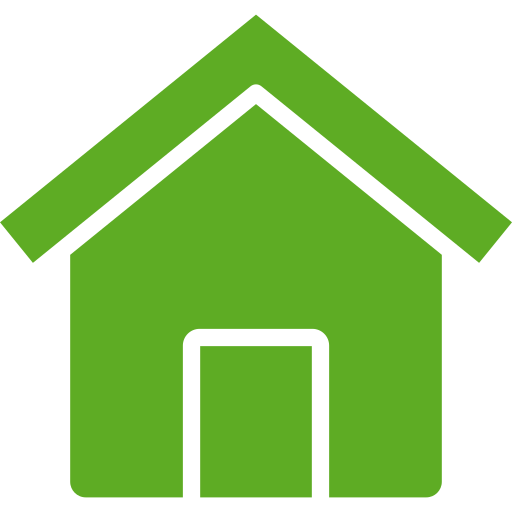
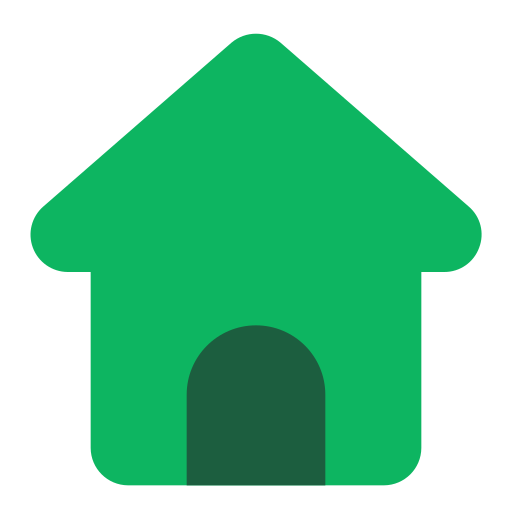
service section

diff --git a/components/ui/background-gradient-animation.tsx b/components/ui/background-gradient-animation.tsx
@@ -1,0 +1,181 @@
+"use client";
+import { cn } from "@/utils/cn";
+import { useEffect, useRef, useState } from "react";
+
+export const BackgroundGradientAnimation = ({
+  gradientBackgroundStart = "rgb(108, 0, 162)",
+  gradientBackgroundEnd = "rgb(0, 17, 82)",
+  firstColor = "18, 113, 255",
+  secondColor = "221, 74, 255",
+  thirdColor = "100, 220, 255",
+  fourthColor = "200, 50, 50",
+  fifthColor = "180, 180, 50",
+  pointerColor = "140, 100, 255",
+  size = "80%",
+  blendingValue = "hard-light",
+  children,
+  className,
+  interactive = true,
+  containerClassName,
+}: {
+  gradientBackgroundStart?: string;
+  gradientBackgroundEnd?: string;
+  firstColor?: string;
+  secondColor?: string;
+  thirdColor?: string;
+  fourthColor?: string;
+  fifthColor?: string;
+  pointerColor?: string;
+  size?: string;
+  blendingValue?: string;
+  children?: React.ReactNode;
+  className?: string;
+  interactive?: boolean;
+  containerClassName?: string;
+}) => {
+  const interactiveRef = useRef<HTMLDivElement>(null);
+
+  const [curX, setCurX] = useState(0);
+  const [curY, setCurY] = useState(0);
+  const [tgX, setTgX] = useState(0);
+  const [tgY, setTgY] = useState(0);
+  useEffect(() => {
+    document.body.style.setProperty(
+      "--gradient-background-start",
+      gradientBackgroundStart
+    );
+    document.body.style.setProperty(
+      "--gradient-background-end",
+      gradientBackgroundEnd
+    );
+    document.body.style.setProperty("--first-color", firstColor);
+    document.body.style.setProperty("--second-color", secondColor);
+    document.body.style.setProperty("--third-color", thirdColor);
+    document.body.style.setProperty("--fourth-color", fourthColor);
+    document.body.style.setProperty("--fifth-color", fifthColor);
+    document.body.style.setProperty("--pointer-color", pointerColor);
+    document.body.style.setProperty("--size", size);
+    document.body.style.setProperty("--blending-value", blendingValue);
+  }, []);
+
+  useEffect(() => {
+    function move() {
+      if (!interactiveRef.current) {
+        return;
+      }
+      setCurX(curX + (tgX - curX) / 20);
+      setCurY(curY + (tgY - curY) / 20);
+      interactiveRef.current.style.transform = `translate(${Math.round(
+        curX
+      )}px, ${Math.round(curY)}px)`;
+    }
+
+    move();
+  }, [tgX, tgY]);
+
+  const handleMouseMove = (event: React.MouseEvent<HTMLDivElement>) => {
+    if (interactiveRef.current) {
+      const rect = interactiveRef.current.getBoundingClientRect();
+      setTgX(event.clientX - rect.left);
+      setTgY(event.clientY - rect.top);
+    }
+  };
+
+  const [isSafari, setIsSafari] = useState(false);
+  useEffect(() => {
+    setIsSafari(/^((?!chrome|android).)*safari/i.test(navigator.userAgent));
+  }, []);
+
+  return (
+    <div
+      className={cn(
+        "h-screen w-screen relative overflow-hidden top-0 left-0 bg-[linear-gradient(40deg,var(--gradient-background-start),var(--gradient-background-end))]",
+        containerClassName
+      )}
+    >
+      <svg className="hidden">
+        <defs>
+          <filter id="blurMe">
+            <feGaussianBlur
+              in="SourceGraphic"
+              stdDeviation="10"
+              result="blur"
+            />
+            <feColorMatrix
+              in="blur"
+              mode="matrix"
+              values="1 0 0 0 0  0 1 0 0 0  0 0 1 0 0  0 0 0 18 -8"
+              result="goo"
+            />
+            <feBlend in="SourceGraphic" in2="goo" />
+          </filter>
+        </defs>
+      </svg>
+      <div className={cn("", className)}>{children}</div>
+      <div
+        className={cn(
+          "gradients-container h-full w-full blur-lg",
+          isSafari ? "blur-2xl" : "[filter:url(#blurMe)_blur(40px)]"
+        )}
+      >
+        <div
+          className={cn(
+            `absolute [background:radial-gradient(circle_at_center,_var(--first-color)_0,_var(--first-color)_50%)_no-repeat]`,
+            `[mix-blend-mode:var(--blending-value)] w-[var(--size)] h-[var(--size)] top-[calc(50%-var(--size)/2)] left-[calc(50%-var(--size)/2)]`,
+            `[transform-origin:center_center]`,
+            `animate-first`,
+            `opacity-100`
+          )}
+        ></div>
+        <div
+          className={cn(
+            `absolute [background:radial-gradient(circle_at_center,_rgba(var(--second-color),_0.8)_0,_rgba(var(--second-color),_0)_50%)_no-repeat]`,
+            `[mix-blend-mode:var(--blending-value)] w-[var(--size)] h-[var(--size)] top-[calc(50%-var(--size)/2)] left-[calc(50%-var(--size)/2)]`,
+            `[transform-origin:calc(50%-400px)]`,
+            `animate-second`,
+            `opacity-100`
+          )}
+        ></div>
+        <div
+          className={cn(
+            `absolute [background:radial-gradient(circle_at_center,_rgba(var(--third-color),_0.8)_0,_rgba(var(--third-color),_0)_50%)_no-repeat]`,
+            `[mix-blend-mode:var(--blending-value)] w-[var(--size)] h-[var(--size)] top-[calc(50%-var(--size)/2)] left-[calc(50%-var(--size)/2)]`,
+            `[transform-origin:calc(50%+400px)]`,
+            `animate-third`,
+            `opacity-100`
+          )}
+        ></div>
+        <div
+          className={cn(
+            `absolute [background:radial-gradient(circle_at_center,_rgba(var(--fourth-color),_0.8)_0,_rgba(var(--fourth-color),_0)_50%)_no-repeat]`,
+            `[mix-blend-mode:var(--blending-value)] w-[var(--size)] h-[var(--size)] top-[calc(50%-var(--size)/2)] left-[calc(50%-var(--size)/2)]`,
+            `[transform-origin:calc(50%-200px)]`,
+            `animate-fourth`,
+            `opacity-70`
+          )}
+        ></div>
+        <div
+          className={cn(
+            `absolute [background:radial-gradient(circle_at_center,_rgba(var(--fifth-color),_0.8)_0,_rgba(var(--fifth-color),_0)_50%)_no-repeat]`,
+            `[mix-blend-mode:var(--blending-value)] w-[var(--size)] h-[var(--size)] top-[calc(50%-var(--size)/2)] left-[calc(50%-var(--size)/2)]`,
+            `[transform-origin:calc(50%-800px)_calc(50%+800px)]`,
+            `animate-fifth`,
+            `opacity-100`
+          )}
+        ></div>
+
+        {interactive && (
+          <div
+            ref={interactiveRef}
+            onMouseMove={handleMouseMove}
+            className={cn(
+              `absolute [background:radial-gradient(circle_at_center,_rgba(var(--pointer-color),_0.8)_0,_rgba(var(--pointer-color),_0)_50%)_no-repeat]`,
+              `[mix-blend-mode:var(--blending-value)] w-full h-full -top-1/2 -left-1/2`,
+              `opacity-70`
+            )}
+          ></div>
+        )}
+      </div>
+    </div>
+  );
+};

diff --git a/components/ui/3d-pin.tsx b/components/ui/3d-pin.tsx
@@ -53,7 +53,7 @@ export const PinContainer = ({
           style={{
             transform: transform,
           }}
-          className="absolute left-1/2 p-4 top-1/2  flex justify-start items-start  rounded-2xl  shadow-[0_8px_16px_rgb(0_0_0/0.4)]  border border-white/[0.1] group-hover/pin:border-white/[0.2] transition duration-700 overflow-hidden"
+          className="absolute left-1/2 p-4 top-1/2  flex justify-start items-start bg-light-900  rounded-2xl  shadow-[0_8px_16px_rgb(0_0_0/0.4)]  border border-white/[0.1] group-hover/pin:border-white/[0.2] transition duration-700 overflow-hidden"
         >
           <div className={cn(" relative z-50 ", className)}>
             {title === "Hausbetreuung" && (
@@ -73,7 +73,7 @@ export const PinContainer = ({
                     </span>
                   ))}
                 </div>
-                <button className="px-12 py-4 rounded-full bg-[#1ED760] font-bold text-white tracking-widest uppercase transform hover:scale-105 hover:bg-[#21e065] transition-colors duration-200">
+                <button className="px-10 py-3 rounded-full bg-primary-500 font-bold text-white tracking-widest uppercase transform hover:scale-105 hover:bg-[#21e065] transition-colors duration-200">
                   Spotify
                 </button>
               </>
@@ -81,7 +81,7 @@ export const PinContainer = ({
 
             {title === "Kommerzielle Reinigung" && (
               <>
-                <Image src="/home.png" alt="house" width={70} height={70} />
+                <Image src="/invoice.png" alt="house" width={70} height={70} />
                 <div className="text-center flex flex-col items-center gap-1">
                   <h3 className="h2-semibold pb-5">{title}</h3>
                   {kommerziellereining.map((item) => (
@@ -96,7 +96,7 @@ export const PinContainer = ({
                     </span>
                   ))}
                 </div>
-                <button className="px-12 py-4 rounded-full bg-[#1ED760] font-bold text-white tracking-widest uppercase transform hover:scale-105 hover:bg-[#21e065] transition-colors duration-200">
+                <button className="px-10 py-3 rounded-full bg-primary-500 font-bold text-white tracking-widest uppercase transform hover:scale-105 hover:bg-[#21e065] transition-colors duration-200">
                   Spotify
                 </button>
               </>
@@ -104,7 +104,7 @@ export const PinContainer = ({
 
             {title === "Spezielle Reinigung" && (
               <>
-                <Image src="/home.png" alt="house" width={70} height={70} />
+                <Image src="/medal.png" alt="house" width={70} height={70} />
                 <div className="text-center flex flex-col items-center gap-1">
                   <h3 className="h2-semibold pb-5">{title}</h3>
                   {speziellereinigung.map((item) => (
@@ -119,7 +119,7 @@ export const PinContainer = ({
                     </span>
                   ))}
                 </div>
-                <button className="px-12 py-4 rounded-full bg-[#1ED760] font-bold text-white tracking-widest uppercase transform hover:scale-105 hover:bg-[#21e065] transition-colors duration-200">
+                <button className="px-10 py-3 rounded-full bg-primary-500 font-bold text-white tracking-widest uppercase transform hover:scale-105 hover:bg-[#21e065] transition-colors duration-200">
                   Spotify
                 </button>
               </>
@@ -146,7 +146,7 @@ export const PinPerspective = ({
           <a
             href={href}
             target={"_blank"}
-            className="relative flex space-x-2 items-center z-10 rounded-full bg-zinc-950 py-0.5 px-4 ring-1 ring-white/10 "
+            className="relative flex space-x-2 items-center z-10 rounded-full bg-primary-500 py-0.5 px-4 ring-1 ring-white/10 "
           >
             <span className="relative z-20 text-white text-xs font-bold inline-block py-0.5">
               {title}

diff --git a/tailwind.config.ts b/tailwind.config.ts
@@ -61,18 +61,46 @@ module.exports = {
         xs: "420px",
       },
       keyframes: {
-        "accordion-down": {
-          from: { height: 0 },
-          to: { height: "var(--radix-accordion-content-height)" },
+        moveHorizontal: {
+          "0%": {
+            transform: "translateX(-50%) translateY(-10%)",
+          },
+          "50%": {
+            transform: "translateX(50%) translateY(10%)",
+          },
+          "100%": {
+            transform: "translateX(-50%) translateY(-10%)",
+          },
         },
-        "accordion-up": {
-          from: { height: "var(--radix-accordion-content-height)" },
-          to: { height: 0 },
+        moveInCircle: {
+          "0%": {
+            transform: "rotate(0deg)",
+          },
+          "50%": {
+            transform: "rotate(180deg)",
+          },
+          "100%": {
+            transform: "rotate(360deg)",
+          },
+        },
+        moveVertical: {
+          "0%": {
+            transform: "translateY(-50%)",
+          },
+          "50%": {
+            transform: "translateY(50%)",
+          },
+          "100%": {
+            transform: "translateY(-50%)",
+          },
         },
       },
       animation: {
-        "accordion-down": "accordion-down 0.2s ease-out",
-        "accordion-up": "accordion-up 0.2s ease-out",
+        first: "moveVertical 30s ease infinite",
+        second: "moveInCircle 20s reverse infinite",
+        third: "moveInCircle 40s linear infinite",
+        fourth: "moveHorizontal 40s ease infinite",
+        fifth: "moveInCircle 20s ease infinite",
       },
     },
   },

diff --git a/components/homeui/HomeServiceSec.tsx b/components/homeui/HomeServiceSec.tsx
@@ -3,14 +3,14 @@ import { PinContainer } from "../ui/3d-pin";
 
 const HomeServiceSec = () => {
   return (
-    <section className="flex flex-col justify-center items-center gap-10 py-36">
+    <section className="flex flex-col justify-center items-center gap-10 py-24">
       <h2 className="h2-bold">Unser Service</h2>
       <p className="max-w-2xl text-center">
         Wir bieten verschiedenste Arten von Reinigungen sowie Dienstleistungen
         für Ihre Immobilie an. Ob Sie eine Hausbetreuung oder Winterdienste in
         der Saison benötigen, bei uns werden alle Wünsche berücksichtigt.
       </p>
-      <div className="flex gap-16 py-28">
+      <div className="flex gap-16 pt-36 pb-28">
         <PinContainer
           title="Hausbetreuung"
           href="/"

diff --git a/components/Navbar.tsx b/components/Navbar.tsx
@@ -4,7 +4,7 @@ import React from 'react'
 
 const Navbar = () => {
   return (
-    <nav className="flex items-center justify-between p-5 fixed top-0 z-50 w-full bg-light-900 shadow-[0_3px_10px_rgb(0,0,0,0.2)]">
+    <nav className="flex items-center justify-between p-7 fixed top-0 z-50 w-full bg-light-900 shadow-[0_3px_10px_rgb(0,0,0,0.2)]">
       <Link href="/">
         <p className="h1-bold px-">Todorovic<span className="text-primary-500">Partner</span></p>
       </Link>
